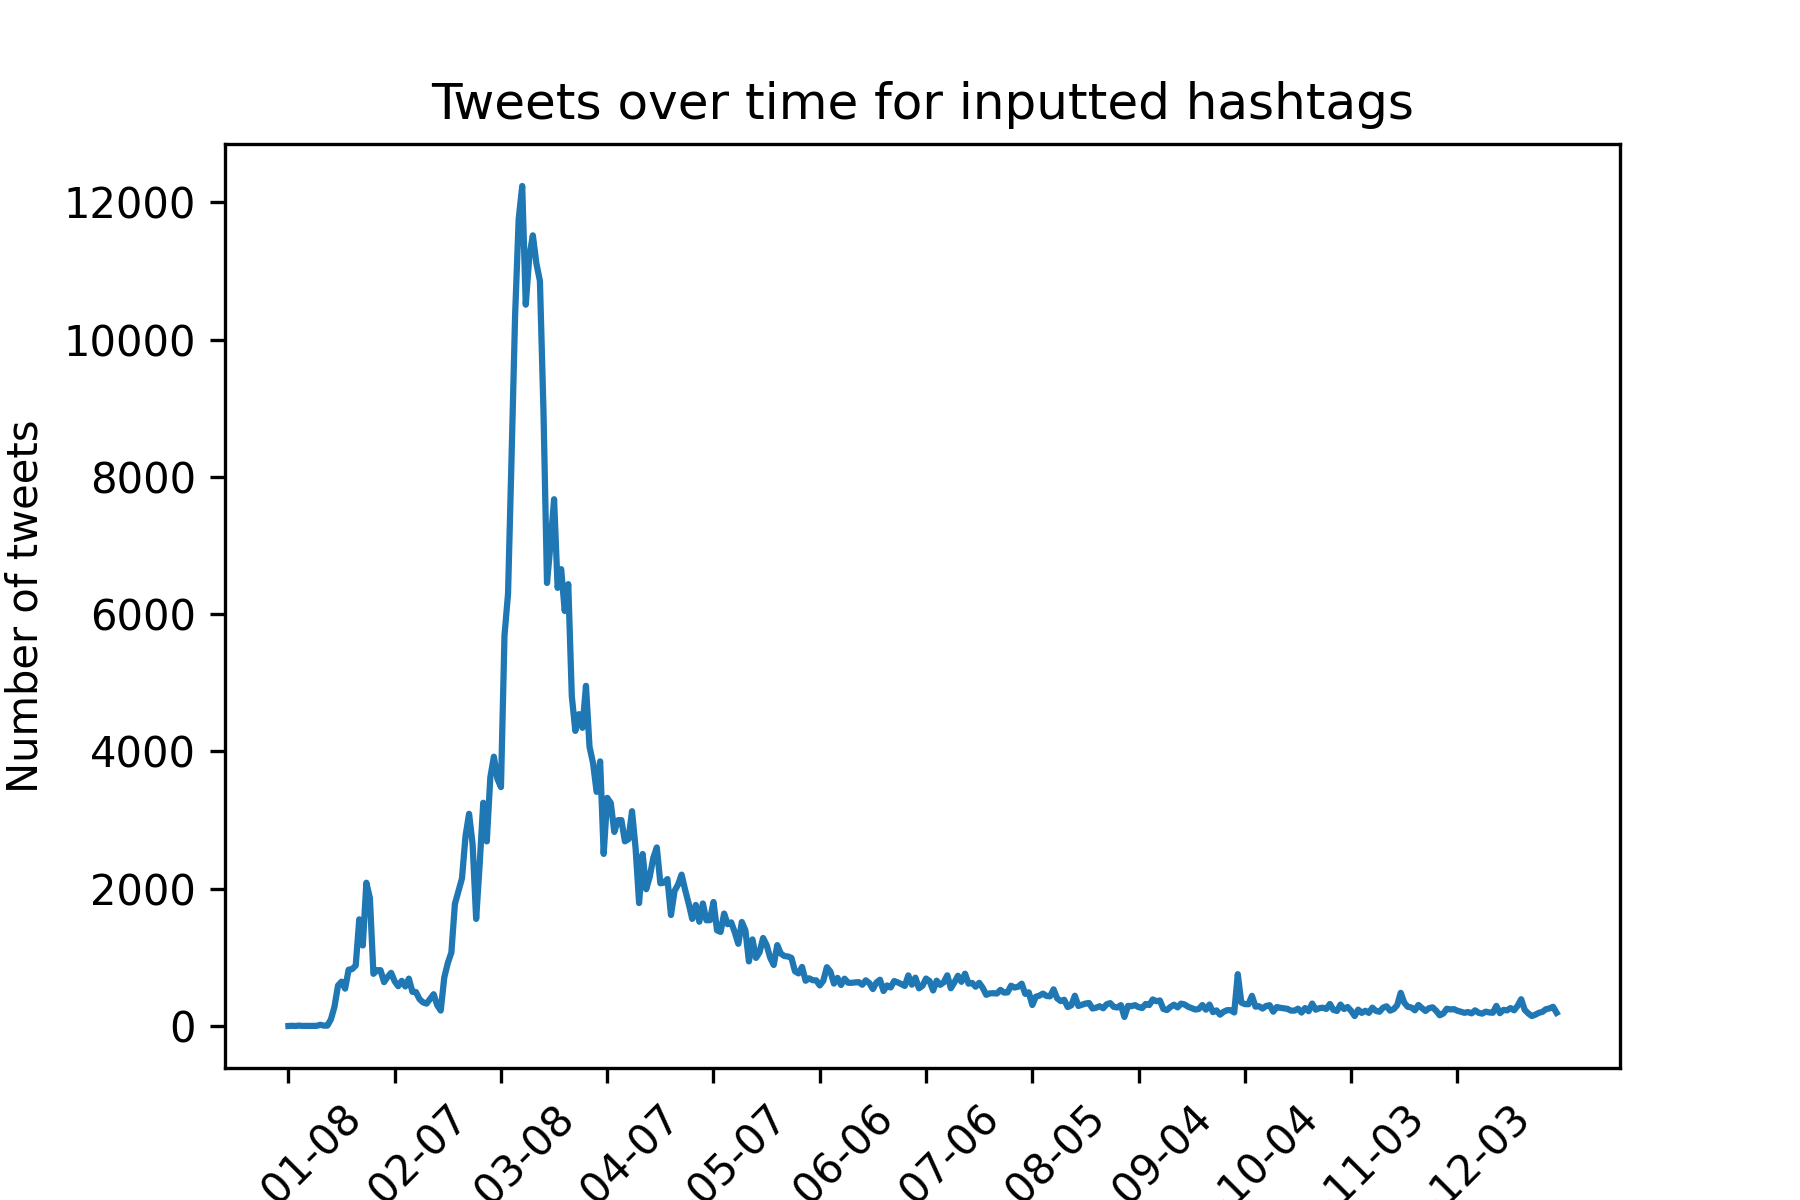
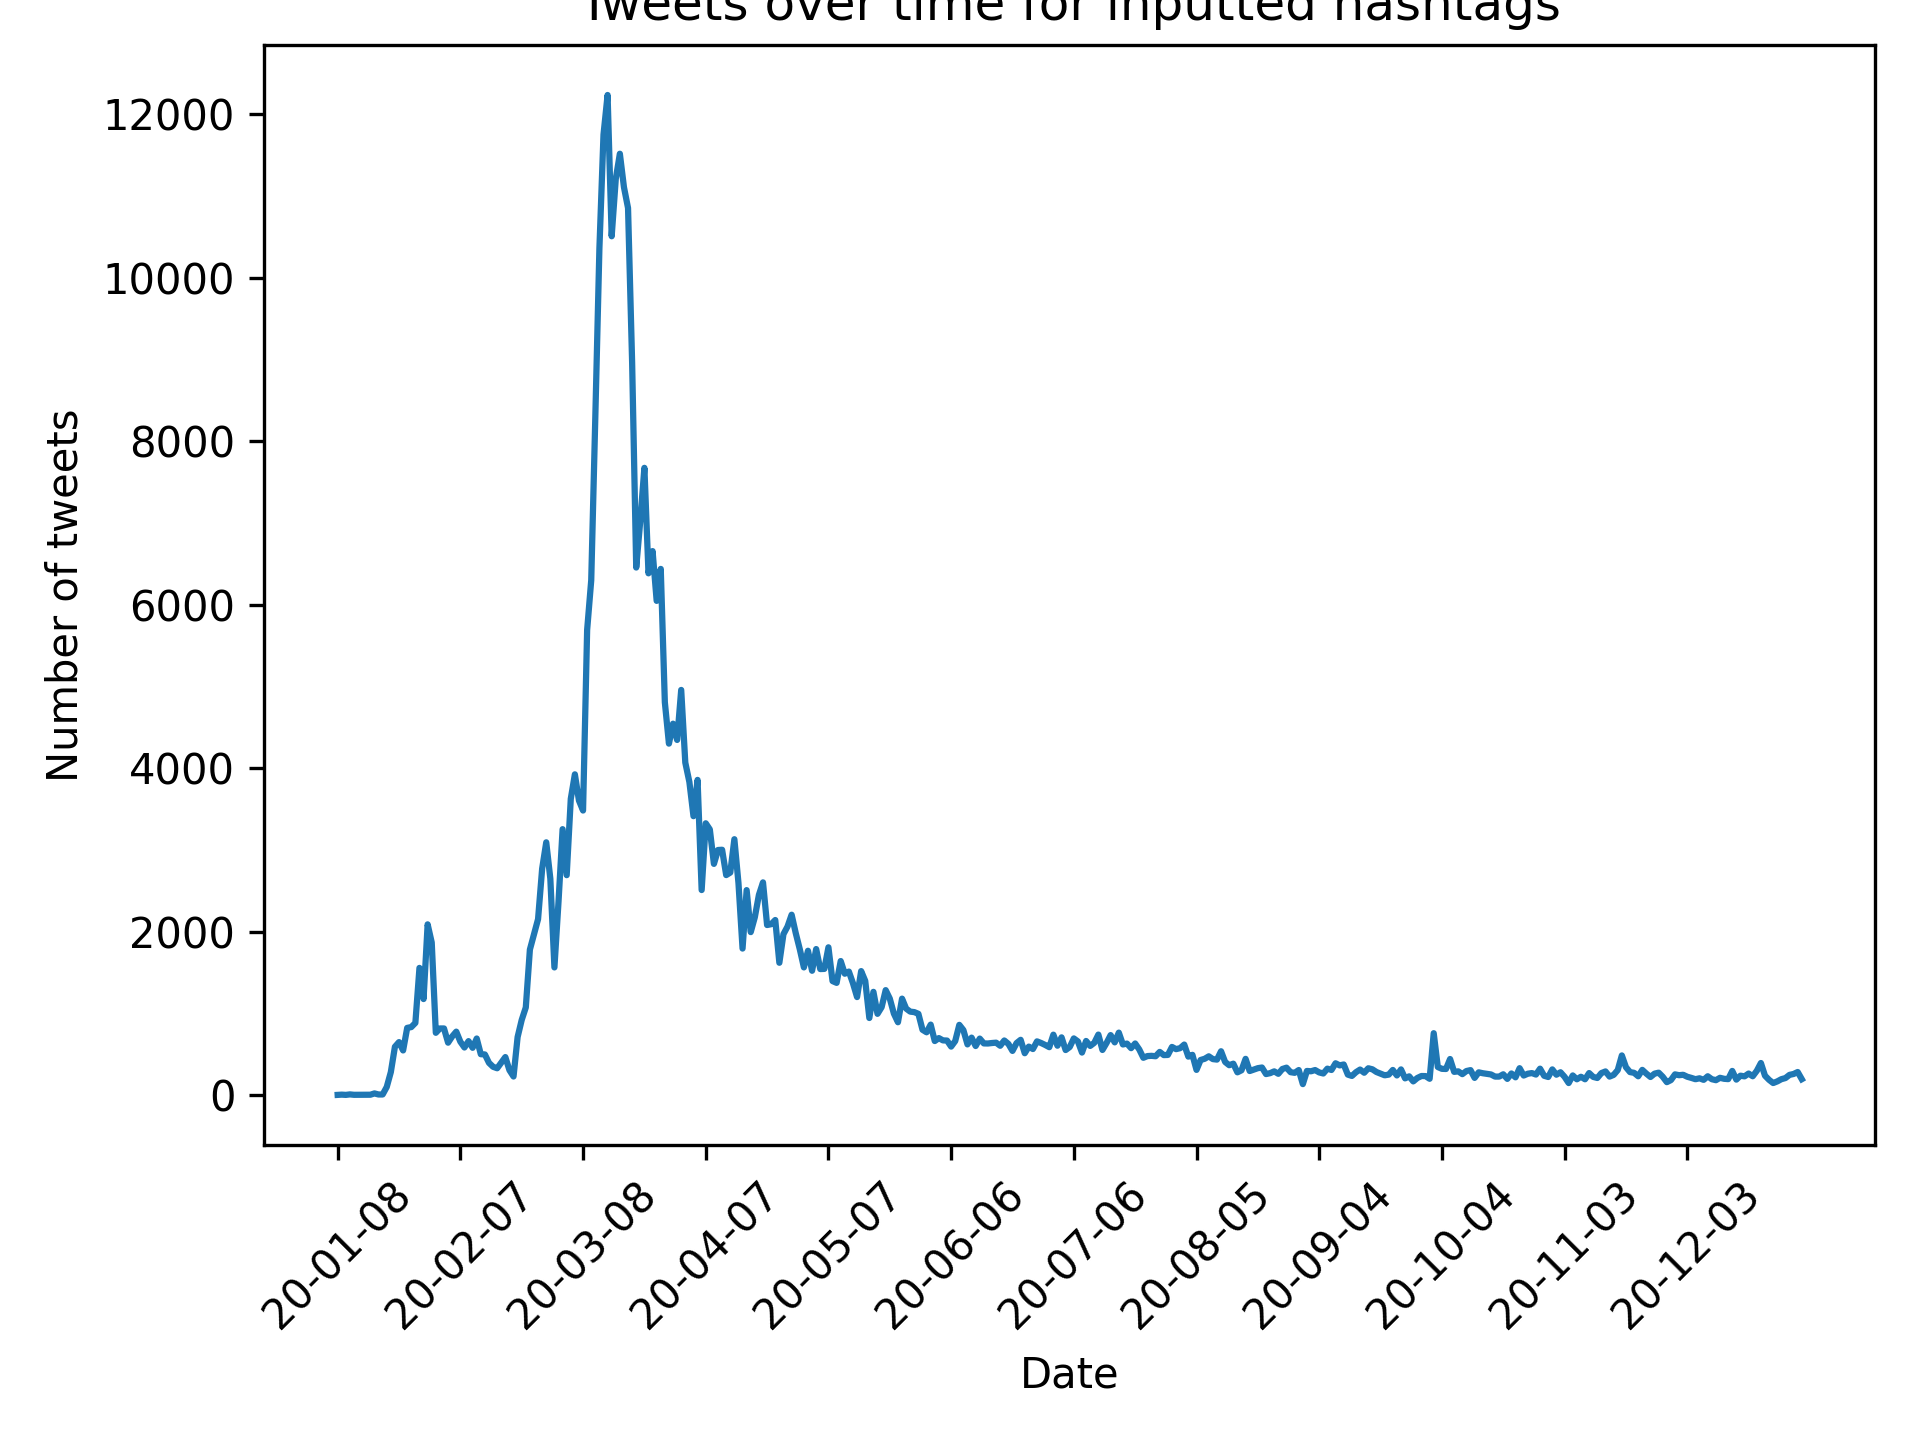
test 8

diff --git a/src/alternative_reduce.py b/src/alternative_reduce.py
@@ -78,10 +78,12 @@ for ht in lHashtags:
         if len(counts.keys()) == 0:
             counts = rDictionaryDate[ht]
         else: 
-            counts = {**counts, **rDictionaryDate[ht]}
+            for key, value in rDictionaryDate[ht].items():
+                counts[key] = counts.get(key, 0) + value
     else:
         print("Inputted hashtag not found")
 
+print(counts)
 
 # normalize the counts by the total values
 if args.percent:
@@ -98,13 +100,13 @@ for k,v in items:
 
 categories, values = zip(*items)
 
-plt.figure(figsize=(6, 5))
 plt.plot(categories, values)
 
 plt.xticks(categories[::30], rotation=45)
 
 plt.xlabel("Date")
 plt.ylabel("Number of tweets")
+plt.tight_layout()
 
 plt.title("Tweets over time for inputted hashtags")
 
